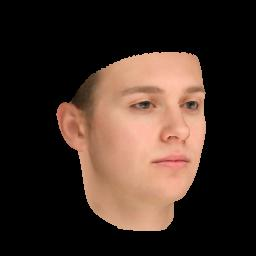
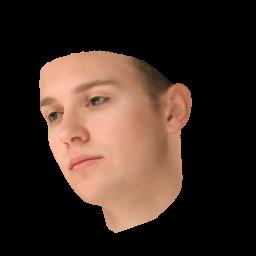
change examples angles

Changed region(s): [[0.125, 0.1875, 0.8125, 0.9062]]

diff --git a/examples/7_generate_uv_map.py b/examples/7_generate_uv_map.py
@@ -30,7 +30,7 @@ vertices = C['vertices']; colors = C['colors']; triangles = C['full_triangles'];
 colors = colors/np.max(colors)
 # --modify vertices(transformation. change position of obj)
 s = 180/(np.max(vertices[:,1]) - np.min(vertices[:,1]))
-R = mesh.transform.angle2matrix([0, 30, 0]) 
+R = mesh.transform.angle2matrix([-10, -35, 20]) 
 t = [0, 0, 0]
 transformed_vertices = mesh.transform.similarity_transform(vertices, s, R, t)
 # --load uv coords
